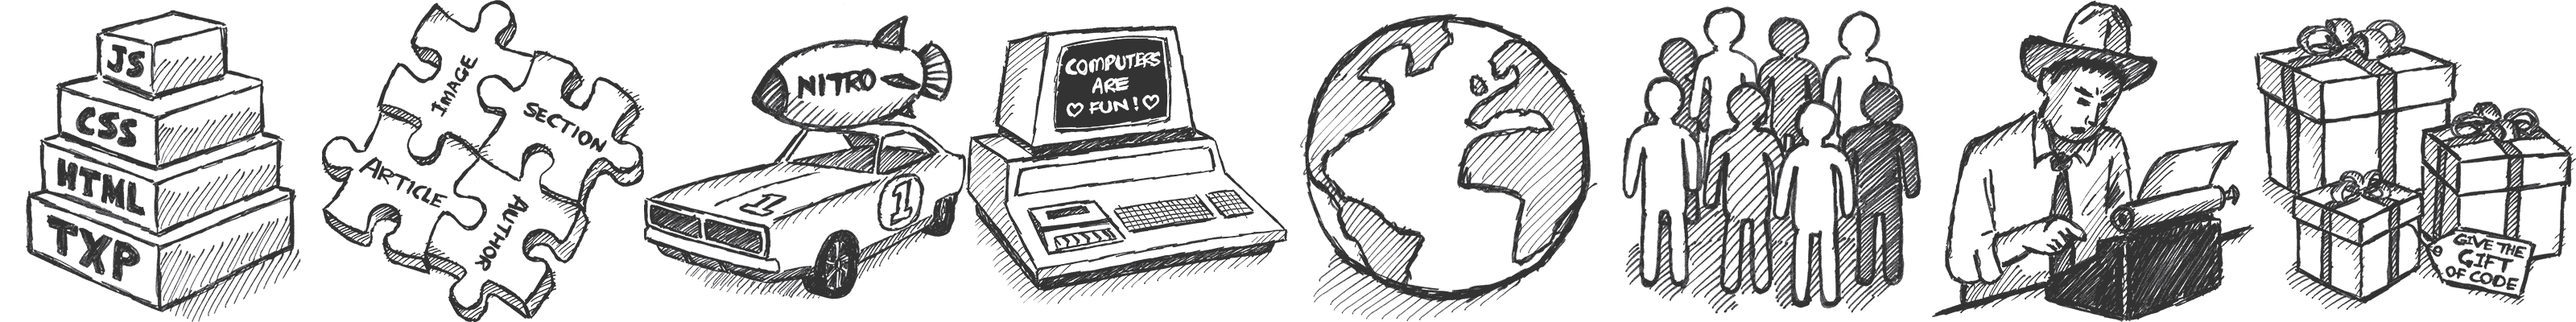
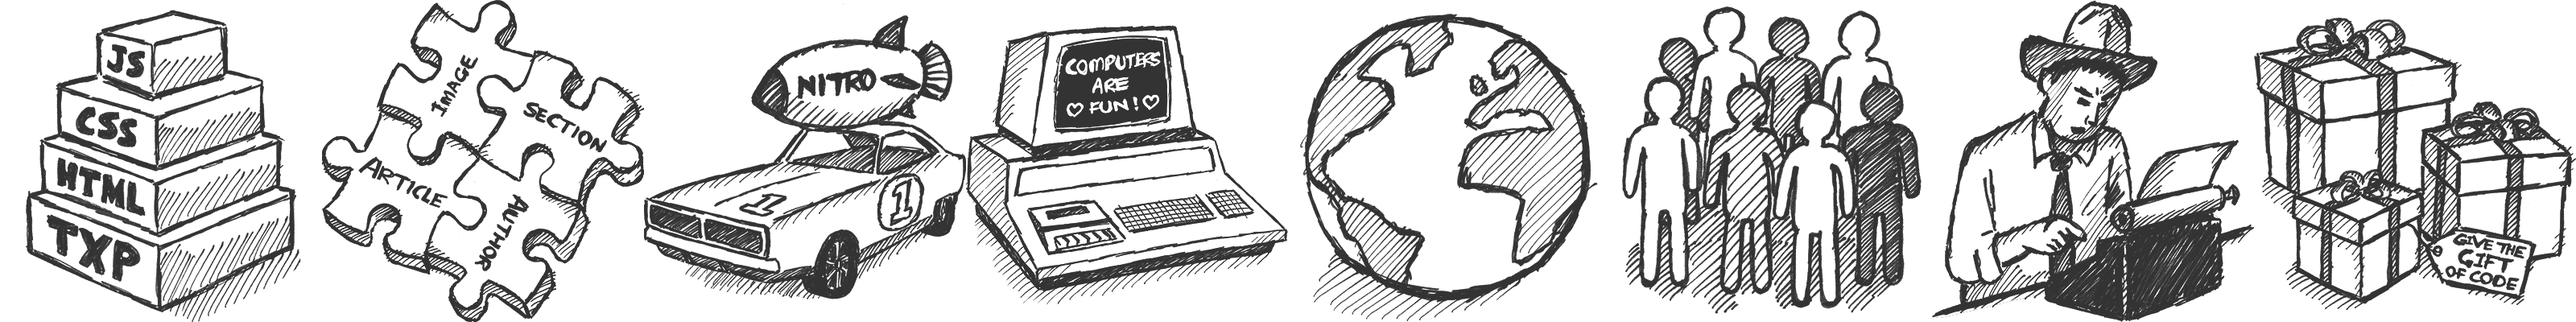
Image consolidation pt1

diff --git a/src/assets/sass/modules/_layout.scss b/src/assets/sass/modules/_layout.scss
@@ -307,6 +307,10 @@ section {
     background-color: $color-background-zebra;
 }
 
+.animation-wrapper {
+    background-color: $color-background;
+}
+
 /**
  * Sidebar layout. Overrode in third breakpoint.
  */
@@ -409,11 +413,6 @@ main .layout-4col-3span {
     @include hires-graphic(com/index-features, png, 1600px, 200px);
 }
 
-@media (prefers-color-scheme: dark) {
-    .index-feature h3::before {
-        @include hires-graphic(com/dark-index-features, png, 1600px, 200px);
-    }
-}
 
 .index-feature-foundations::before {
     background-position: 0 0;
@@ -451,12 +450,6 @@ main .layout-4col-3span {
     @include hires-graphic(com/index-docs, png, 1200px, 200px);
 }
 
-@media (prefers-color-scheme: dark) {
-    .index-docs h3::before {
-        @include hires-graphic(com/dark-index-docs, png, 1200px, 200px);
-    }
-}
-
 .index-docs-start::before {
     background-position: 0 0;
 }
@@ -479,6 +472,13 @@ main .layout-4col-3span {
 
 .index-docs-faqs::before {
     background-position: -1000px 0;
+}
+
+@media (prefers-color-scheme: dark) {
+    .index-feature h3::before,
+    .index-docs h3::before {
+        filter: contrast(150%);
+    }
 }
 
 /**

diff --git a/src/mockups/index.html b/src/mockups/index.html
@@ -98,7 +98,7 @@
         <main aria-label="Main content">
 
 
-            <div class="wrapper-inner">
+            <div class="wrapper-inner animation-wrapper">
                 <div id="animation-container">
                     <canvas id="animation" width="1150" height="480"><img width="1150" height="480" alt="Powering big ideas from a small CMS" src="../assets/img/com/index-animation-fallback.png"></canvas>
                 </div><!-- /#animation-container -->
